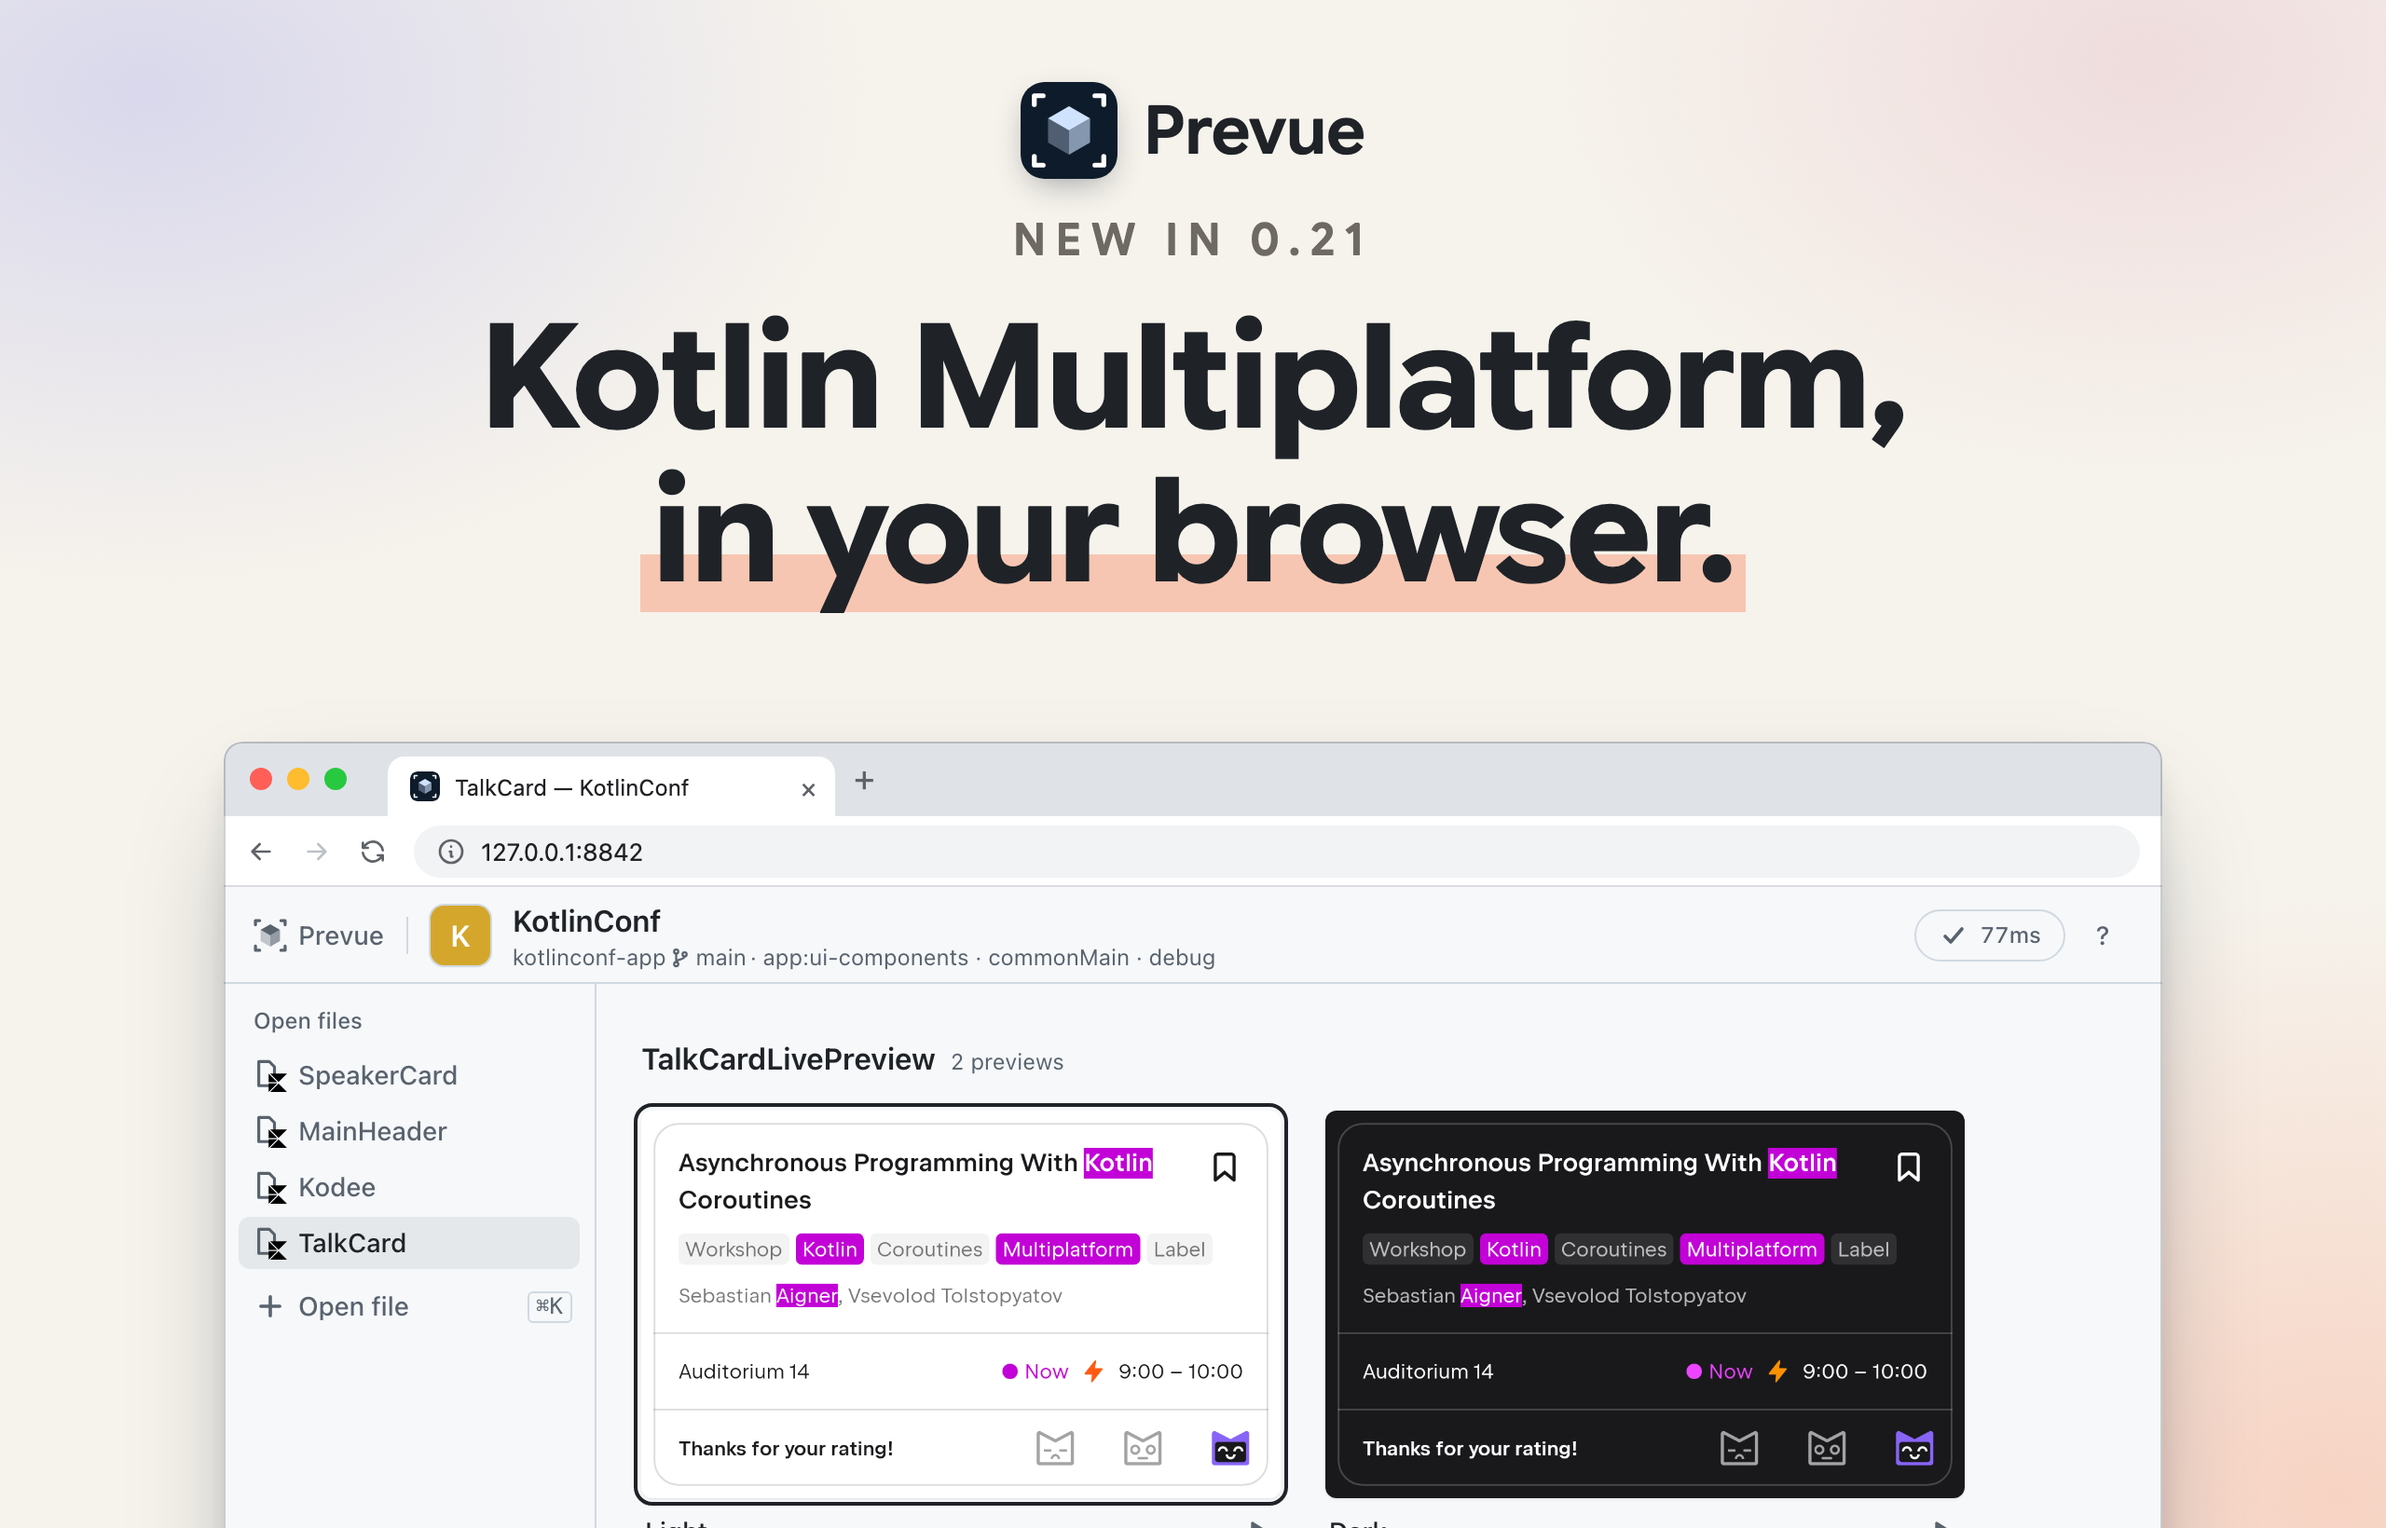
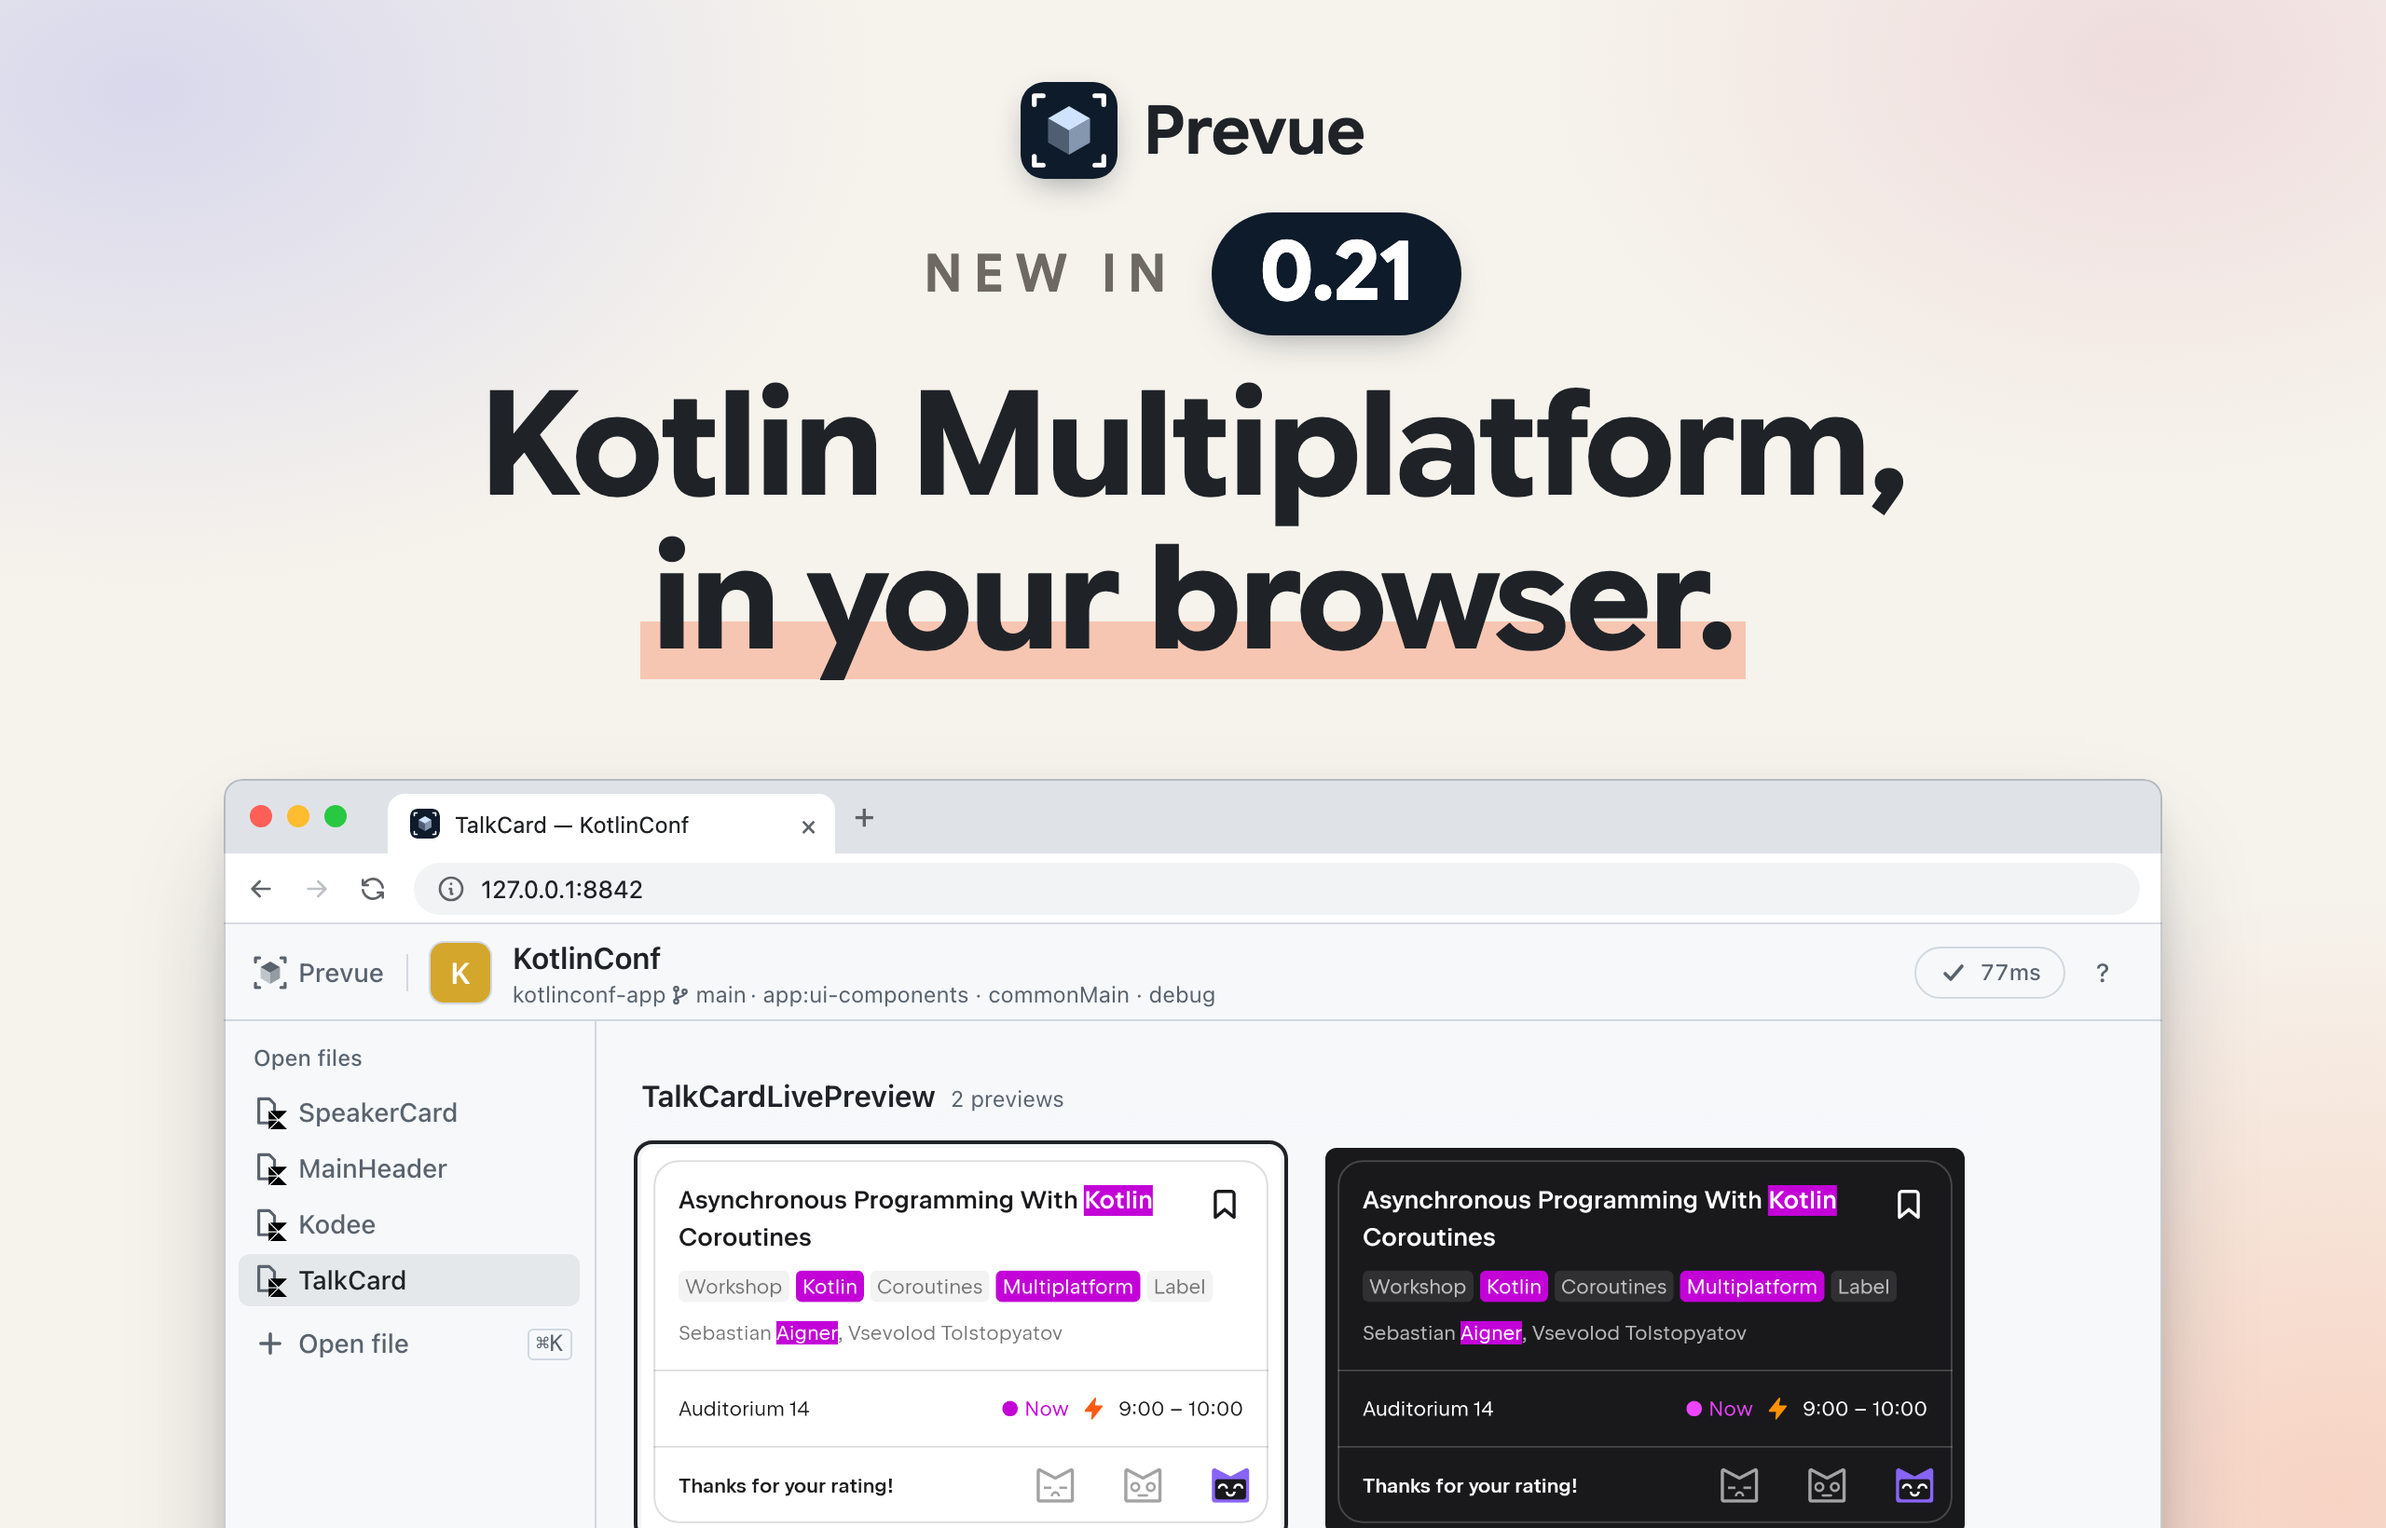
히어로의 버전을 진한 알약에 크게 — 머리말(kick)과 버전(ver)을 나눈다

diff --git a/prototypes/release-hero/index.html b/prototypes/release-hero/index.html
@@ -4,7 +4,7 @@
 <meta charset="utf-8">
 <title>Prevue release hero</title>
 <!-- 릴리즈 노트 맨 위 그림(1280×820, 2배로 찍는다). 톤은 GitHub 소셜 프리뷰(OG)와 같다 — 배경 · 그라데이션 · 글꼴 · 형광펜 밑줄.
-     판마다 바꾸는 것은 주소의 쿼리뿐이다: kick(머리말) · l1 · l2(제목 두 줄, l2 에 형광펜) · shot(창 캡처 PNG 경로) — 넷 다 필수다. 찍는 법은 README.md. -->
+     판마다 바꾸는 것은 주소의 쿼리뿐이다: kick(머리말, 예: New in) · ver(버전 알약, 예: 0.21) · l1 · l2(제목 두 줄, l2 에 형광펜) · shot(창 캡처 PNG 경로) — 다섯 다 필수다. 찍는 법은 README.md. -->
 <link rel="preconnect" href="https://fonts.googleapis.com">
 <link rel="preconnect" href="https://fonts.gstatic.com" crossorigin>
 <link rel="stylesheet" href="https://fonts.googleapis.com/css2?family=Google+Sans+Flex:wght@600;700&display=block">
@@ -19,13 +19,18 @@ body{background:#F6F3EC;font-family:"Google Sans Flex",sans-serif;color:#1F2328;
 .text{position:absolute;left:0;right:0;top:44px;display:flex;flex-direction:column;align-items:center;gap:18px;text-align:center}
 .logo{display:flex;align-items:center;gap:14px;font-weight:600;font-size:36px}
 .logo img{width:52px;height:52px;border-radius:13px;box-shadow:0 6px 18px -6px rgba(14,27,42,.45)}
-.kick{font-weight:600;font-size:24px;letter-spacing:.22em;color:#6E6A63;text-transform:uppercase}
+/* 버전은 로고 다음으로 먼저 읽혀야 한다 — 머리말은 작게, 버전은 진한 알약에 크게 */
+.kick{display:flex;align-items:center;gap:18px}
+#kick{font-weight:600;font-size:28px;letter-spacing:.22em;color:#6E6A63;text-transform:uppercase}
+#ver{font-weight:700;font-size:44px;letter-spacing:-.5px;line-height:1;color:#fff;background:#0E1B2A;border-radius:999px;padding:10px 26px 12px;
+ box-shadow:0 8px 20px -10px rgba(14,27,42,.5)}
+#ver.missing{background:none}
 h1{font-weight:700;font-size:78px;letter-spacing:-1.5px;line-height:1.06;white-space:nowrap}
 .missing{color:#C62828;outline:3px dashed #C62828}
 .mk{background:linear-gradient(transparent 62%,#F7C6B2 62%,#F7C6B2 94%,transparent 94%);padding:0 6px;margin:0 -6px}
 /* 창은 아래가 잘린다 — 헤더와 첫 줄 카드만 보이면 된다. 캡처는 readme-shots 의 창 테두리(모서리 10px · 바깥 투명)를 단 2배 PNG 라
    모서리를 그 반경에 맞춰야 그림자와 어긋나지 않는다. 제목은 두 줄을 넘지 않게 줄바꿈을 막는다 — 넘치면 옆으로 삐져 보인다 */
-.shot{position:absolute;left:50%;top:398px;width:1040px;transform:translateX(-50%);border-radius:10px;
+.shot{position:absolute;left:50%;top:418px;width:1040px;transform:translateX(-50%);border-radius:10px;
  box-shadow:0 30px 60px -20px rgba(14,27,42,.42),0 8px 20px -10px rgba(14,27,42,.28)}
 .shot img{display:block;width:100%}
 </style>
@@ -34,14 +39,14 @@ h1{font-weight:700;font-size:78px;letter-spacing:-1.5px;line-height:1.06;white-s
 <div class="mesh"></div>
 <div class="text">
   <div class="logo"><img src="../../assets/icon.svg" alt=""> Prevue</div>
-  <div class="kick" id="kick"></div>
+  <div class="kick"><span id="kick"></span><span id="ver"></span></div>
   <h1><span id="l1"></span><br><span class="mk" id="l2"></span></h1>
 </div>
 <div class="shot"><img id="shot" alt=""></div>
 <script>
 // 빠진 값은 지난 판 글자로 조용히 찍히지 않게 빨간 자리표시로 남긴다
 const q = new URLSearchParams(location.search);
-for (const k of ["kick", "l1", "l2"]) {
+for (const k of ["kick", "ver", "l1", "l2"]) {
   const el = document.getElementById(k);
   if (q.get(k)) el.textContent = q.get(k); else { el.textContent = k + "?"; el.classList.add("missing"); }
 }

diff --git a/prototypes/release-hero/README.md b/prototypes/release-hero/README.md
@@ -2,7 +2,7 @@
 
 릴리즈 노트 맨 위 그림(`assets/release-<버전>.png`, 1280×820을 2배로)을 찍는 틀이다. 톤은 GitHub 소셜 프리뷰(OG)와 같다. 이 그림이 develop에 있으면 `/ship`이 그 판의 노트 맨 위에 건다 — 규약은 `dev-skills-src/release-notes.md`의 "판의 모양".
 
-바꾸는 것은 주소의 쿼리뿐이다: `kick`(머리말) · `l1` · `l2`(제목 두 줄, `l2`에 형광펜) · `shot`(창 캡처). 글꼴은 Google Fonts에서 읽으니 네트워크가 있어야 한다.
+바꾸는 것은 주소의 쿼리뿐이다: `kick`(머리말) · `ver`(버전 알약) · `l1` · `l2`(제목 두 줄, `l2`에 형광펜) · `shot`(창 캡처). 글꼴은 Google Fonts에서 읽으니 네트워크가 있어야 한다.
 
 ```sh
 # 1) 창 캡처 — readme-shots 의 장면을 넓은 창으로. board 장면은 assets/board-kotlinconf.png 를 덮으니 옮기고 되돌린다
@@ -13,7 +13,7 @@ mv assets/board-kotlinconf.png <스크래치>/shot.png && git checkout assets/bo
 "/Applications/Google Chrome.app/Contents/MacOS/Google Chrome" --headless=new --hide-scrollbars \
   --window-size=1280,820 --force-device-scale-factor=2 --virtual-time-budget=8000 --allow-file-access-from-files \
   --screenshot="$PWD/assets/release-0.21.0.png" \
-  "file://$PWD/prototypes/release-hero/index.html?kick=New%20in%200.21&l1=Kotlin%20Multiplatform,&l2=in%20your%20browser.&shot=file://<스크래치>/shot.png"
+  "file://$PWD/prototypes/release-hero/index.html?kick=New%20in&ver=0.21&l1=Kotlin%20Multiplatform,&l2=in%20your%20browser.&shot=file://<스크래치>/shot.png"
 ```
 
-창은 아래가 잘린다 — 헤더와 첫 줄 카드가 보이면 된다. 다른 장면을 쓰면 `--bw 1040`(틀의 창 폭)을 지켜 2배 PNG가 흐려지지 않게 한다. 쿼리 넷 중 하나라도 빠지면 그 자리가 빨간 `kick?` 같은 표시로 찍힌다 — 지난 판 글자로 조용히 나가지 않게. `shot` 경로에 `&`가 있으면 `%26`으로 적는다.
+창은 아래가 잘린다 — 헤더와 첫 줄 카드가 보이면 된다. 다른 장면을 쓰면 `--bw 1040`(틀의 창 폭)을 지켜 2배 PNG가 흐려지지 않게 한다. 쿼리 다섯 중 하나라도 빠지면 그 자리가 빨간 `kick?` 같은 표시로 찍힌다 — 지난 판 글자로 조용히 나가지 않게. `shot` 경로에 `&`가 있으면 `%26`으로 적는다.
